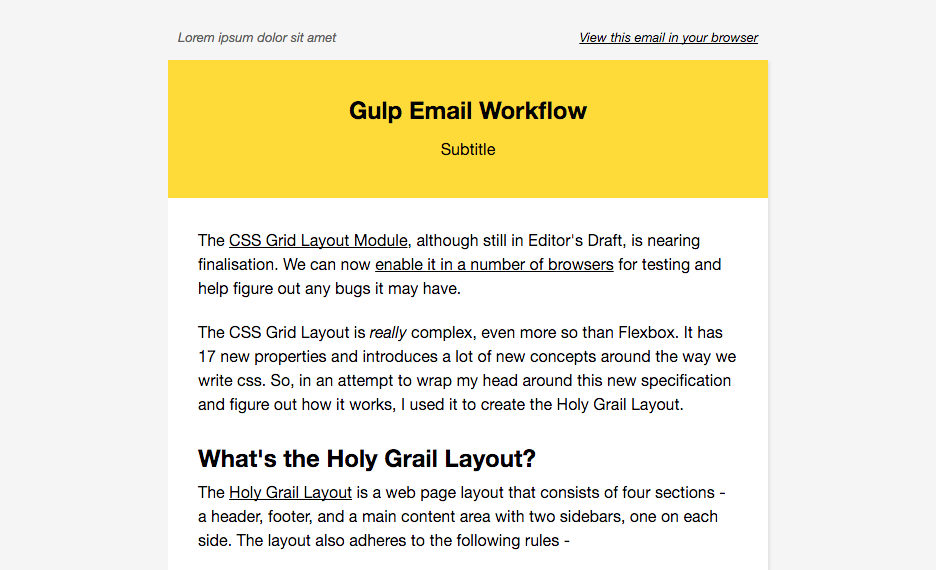
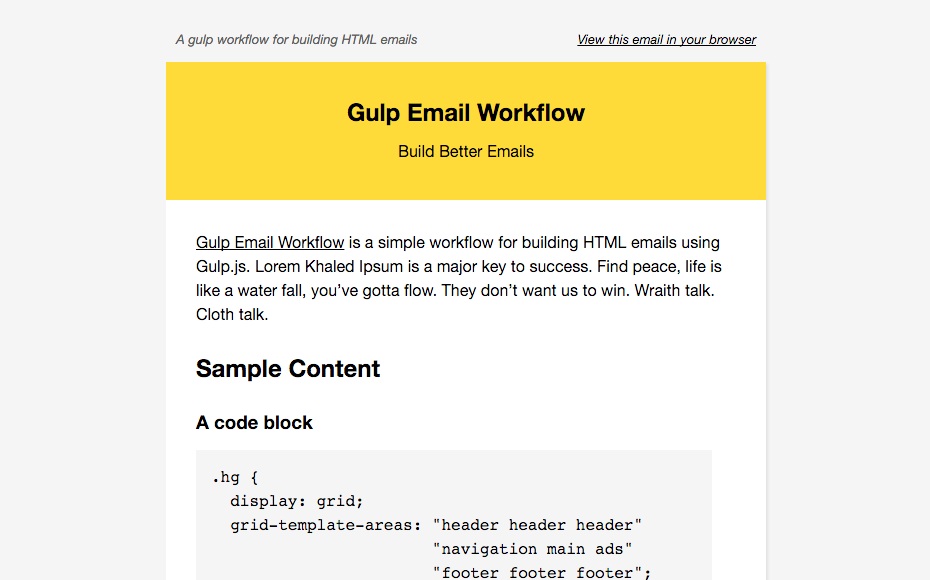
more cleanup

diff --git a/build/index.html b/build/index.html
@@ -2,17 +2,17 @@
 <html xmlns="http://www.w3.org/1999/xhtml">
 <head>
   <meta property="og:type" content="article">
-  <meta property="og:title" content="bitsofcode">
+  <meta property="og:title" content="">
   <meta property="og:url" content="">
   <meta http-equiv="Content-Type" content="text/html; charset=UTF-8">
 
   <title>*|MC:SUBJECT|*</title>
 
-  <link rel="stylesheet" href="/build/css/inline.css">
-  <style type="text/css">#template-content a:link,#template-content a:visited,#template-content a.yshortcuts{color:#000;font-weight:normal;text-decoration:underline}#template-content h2{margin-top:30px;margin-bottom:10px}#template-content h3{margin-top:30px;margin-bottom:10px}#template-content img{display:inline;height:auto;width:100%}#template-content p{margin:0 0 20px}#template-content pre{display:block;width:90%;overflow-x:scroll;background-color:#F5F5F5;padding:15px}#template-content code{background-color:#F5F5F5}
+   
+  <style type="text/css">#template-content a:link,#template-content a:visited,#template-content a.yshortcuts{color:#000;font-weight:normal;text-decoration:underline}#template-content h2{margin-top:30px;margin-bottom:20px}#template-content h3{margin-top:30px;margin-bottom:10px}#template-content img{display:inline;height:auto;width:100%}#template-content p{margin:0 0 20px}#template-content pre{display:block;width:90%;overflow-x:scroll;background-color:#F5F5F5;padding:15px}#template-content code{background-color:#F5F5F5}#template-content blockquote{margin:0 0 10px;border-left:5px solid #F5F5F5;padding:5px 10px;font-style:italic}
 </style>
 </head>
-<body leftmargin="0" marginwidth="0" topmargin="0" marginheight="0" offset="0">
+<body leftmargin="0" marginwidth="0" topmargin="0" marginheight="0" offset="0" style="-ms-text-size-adjust: 100%; -webkit-text-size-adjust: 100%; background-color: #F5F5F5; height: 100% !important; margin: 0; padding: 0; width: 100%;">
 
     <div itemscope="" itemtype="http://schema.org/EmailMessage">
       <div itemprop="publisher" itemscope="" itemtype="http://schema.org/Organization">
@@ -21,38 +21,38 @@
       </div>
       <div itemprop="about" itemscope="" itemtype="http://schema.org/Offer"></div>
     </div>
-<center id="body-container">
+<center id="body-container" style="margin: 20px auto; max-width: 600px; width: 100%;">
 
   <!-- PREHEADER //////////////// -->
-  <table border="0" cellpadding="0" cellspacing="0" id="template-preheader" width="100%">
+  <table border="0" cellpadding="0" cellspacing="0" id="template-preheader" width="100%" style="-ms-text-size-adjust: 100%; -webkit-text-size-adjust: 100%; border-collapse: collapse !important; mso-table-lspace: 0pt; mso-table-rspace: 0pt;">
     <tr>
-      <td mc:edit="preheader_content01" valign="top" width="50%">
+      <td mc:edit="preheader_content01" valign="top" width="50%" style="-ms-text-size-adjust: 100%; -webkit-text-size-adjust: 100%; color: #606060; font-family: 'Helvetica Neue', Helvetica, 'Arial', sans-serif; font-size: 13px; font-style: italic; mso-table-lspace: 0pt; mso-table-rspace: 0pt; padding: 15px 10px;">
            
-Lorem ipsum dolor sit amet
+A gulp workflow for building HTML emails
 
       </td>
-      <td mc:edit="preheader_content02" valign="top" width="50%">
-          <a href="*|ARCHIVE|*">View this email in your browser</a>
+      <td mc:edit="preheader_content02" valign="top" width="50%" style="-ms-text-size-adjust: 100%; -webkit-text-size-adjust: 100%; color: #606060; font-family: 'Helvetica Neue', Helvetica, 'Arial', sans-serif; font-size: 13px; font-style: italic; mso-table-lspace: 0pt; mso-table-rspace: 0pt; padding: 15px 10px; text-align: right;">
+          <a href="*|ARCHIVE|*" style="-ms-text-size-adjust: 100%; -webkit-text-size-adjust: 100%; color: #000;">View this email in your browser</a>
       </td>
     </tr>
   </table>
 
 
   <!-- START TEMPLATE CONTENT //////////////// -->
-  <center id="template-content">
+  <center id="template-content" style="background-color: #fff; box-shadow: 2px 2px 3px rgba(150,150,150,0.2);">
 
     <!-- EMAIL HEADER -->
-    <table border="0" cellpadding="0" cellspacing="0" id="template-content-header" width="100%">
+    <table border="0" cellpadding="0" cellspacing="0" id="template-content-header" width="100%" style="-ms-text-size-adjust: 100%; -webkit-text-size-adjust: 100%; border-collapse: collapse !important; mso-table-lspace: 0pt; mso-table-rspace: 0pt; position: relative; text-align: center;">
       <tr>
-        <td align="center" valign="top">
-            <h1 mc:edit="email_title" class="email-title">
+        <td align="center" valign="top" style="-ms-text-size-adjust: 100%; -webkit-text-size-adjust: 100%; background-color: #ffdb3a; font-family: 'Helvetica Neue', Helvetica, 'Arial', sans-serif; mso-table-lspace: 0pt; mso-table-rspace: 0pt; padding: 20px 15px;">
+            <h1 mc:edit="email_title" class="email-title" style="color: #000; font-size: 24px; font-weight: 700; line-height: 120%; text-decoration: none;">
              
 Gulp Email Workflow
 
             </h1>
-            <p mc:edit="email_subtitle" class="email-subtitle">
+            <p mc:edit="email_subtitle" class="email-subtitle" style="-ms-text-size-adjust: 100%; -webkit-text-size-adjust: 100%; font-size: 16px;">
              
-Subtitle
+Build Better Emails
 
             </p>
         </td>
@@ -61,19 +61,59 @@ Subtitle
 
 
     <!-- EMAIL CONTENT -->
-    <div mc:edit="body" id="template-content-content">
+    <div mc:edit="body" id="template-content-content" style="font-family: 'Helvetica Neue', Helvetica, 'Arial', sans-serif; font-size: 16px; font-weight: 400; line-height: 150%; margin: 30px 0; max-width: 560px; text-align: left; width: 90%;">
        
-<p>The <a href="https://drafts.csswg.org/css-grid/">CSS Grid Layout Module</a>, although still in Editor's Draft, is nearing finalisation. We can now <a href="http://igalia.github.io/css-grid-layout/enable.html">enable it in a number of browsers</a> for testing and help figure out any bugs it may have.</p> <p>The CSS Grid Layout is <em>really</em> complex, even more so than Flexbox. It has 17 new properties and introduces a lot of new concepts around the way we write css. So, in an attempt to wrap my head around this new specification and figure out how it works, I used it to create the Holy Grail Layout. </p> <h2 id="whatstheholygraillayout">What's the Holy Grail Layout?</h2> <p>The <a href="https://en.wikipedia.org/wiki/Holy_Grail_(web_design)">Holy Grail Layout</a> is a web page layout that consists of four sections - a header, footer, and a main content area with two sidebars, one on each side. The layout also adheres to the following rules - </p> <ul> <li>Has a <strong>fluid center column</strong> width <strong>fixed-width sidebars</strong></li> <li>The center column should appear <strong>first in the markup</strong>, before the two sidebars (but after the header)</li> <li>All three columns should be the <strong>same height</strong>, regardless of the content within them</li> <li>The footer should always be at the <strong>bottom of the browser viewport</strong>, even when the content doesn't fill up the height of the viewport</li> <li>The layout should be <strong>responsive</strong>, all the sections should collapse into one column on smaller viewports</li> </ul> <p>It is famously difficult to create simply in CSS without any hacks.</p> <h2 id="thesolutionwithcssgrid">The Solution with CSS Grid</h2> <p>Here is the solution I came up with using the CSS Grid Layout. First, the markup - </p> <pre><code class="language-html">&lt;body class="hg"&gt; &lt;header class="hg__header"&gt;Title&lt;/header&gt; &lt;main class="hg__main"&gt;Content&lt;/main&gt; &lt;aside class="hg__left"&gt;Menu&lt;/aside&gt; &lt;aside class="hg__right"&gt;Ads&lt;/aside&gt; &lt;footer class="hg__footer"&gt;Footer&lt;/footer&gt; &lt;/body&gt; </code></pre> <p>And the CSS, at only 31 lines (expanded!) - </p> <pre><code class="language-css">.hg__header { grid-area: header; } .hg__footer { grid-area: footer; } .hg__main { grid-area: main; } .hg__left { grid-area: navigation; } .hg__right { grid-area: ads; } .hg { display: grid; grid-template-areas: "header header header" "navigation main ads" "footer footer footer"; grid-template-columns: 150px 1fr 150px; grid-template-rows: 100px 1fr 30px; min-height: 100vh; } @media screen and (max-width: 600px) { .hg { grid-template-areas: "header" "navigation" "main" "ads" "footer"; grid-template-columns: 100%; grid-template-rows: 100px 50px 1fr 50px 30px; } } </code></pre> <p><img src="http://bitsofco.de/content/images/2016/03/Holy_Grail_CSS_Grid.gif" alt="Holy Grail Layout Responsive Demo"></p> <h2 id="breakingitdown">Breaking it Down</h2> <p>As I mentioned, CSS Grid Layout can be very complicated. However, for the purpose of creating this layout, I only used 4 of the 17 new properties - </p> <ul> <li><code>grid-area</code></li> <li><code>grid-template-areas</code></li> <li><code>grid-template-columns</code></li> <li><code>grid-template-rows</code></li> </ul> <p>My solution to the Holy Grail Layout using these CSS Grid properties can be broken down into five steps.</p> <h3 id="1definingthegrid">1. Defining the Grid</h3> <p>The first thing we want to do is define the grid areas, so we can refer to them by this alias when creating the grid. We do this with the <code>grid-area</code> property. </p>
+<p style="-ms-text-size-adjust: 100%; -webkit-text-size-adjust: 100%;"><a href="https://github.com/ireade/gulp-email-workflow" style="-ms-text-size-adjust: 100%; -webkit-text-size-adjust: 100%; color: #000;">Gulp Email Workflow</a> is a simple workflow for building HTML emails using Gulp.js. Lorem Khaled Ipsum is a major key to success. Find peace, life is like a water fall, you’ve gotta flow. They don’t want us to win. Wraith talk. Cloth talk. </p>
+
+<h2>Sample Content</h2>
+
+<h3>A code block</h3>
+
+<pre><code class="language-css">.hg { 
+  display: grid; 
+  grid-template-areas: "header header header" 
+		       "navigation main ads" 
+		       "footer footer footer";
+  grid-template-columns: 150px 1fr 150px; 
+  grid-template-rows: 100px 1fr 30px; 
+  min-height: 100vh; 
+}</code></pre>
+
+<h3>An unordered list</h3>
+
+<ul>
+	<li style="-ms-text-size-adjust: 100%; -webkit-text-size-adjust: 100%;">List item one</li>
+	<li style="-ms-text-size-adjust: 100%; -webkit-text-size-adjust: 100%;">List item two</li>
+	<li style="-ms-text-size-adjust: 100%; -webkit-text-size-adjust: 100%;">List item three</li>
+</ul>
+
+<h3>An ordered list</h3>
+
+<ol>
+	<li style="-ms-text-size-adjust: 100%; -webkit-text-size-adjust: 100%;">List item one</li>
+	<li style="-ms-text-size-adjust: 100%; -webkit-text-size-adjust: 100%;">List item two</li>
+	<li style="-ms-text-size-adjust: 100%; -webkit-text-size-adjust: 100%;">List item three</li>
+</ol>
+
+<h3>A block quote</h3>
+
+<blockquote style="-ms-text-size-adjust: 100%; -webkit-text-size-adjust: 100%;">
+	The first of the month is coming, we have to get money, we have no choice. 
+</blockquote>
+
+<h2>Some people can’t handle success, I can</h2>
+
+<p style="-ms-text-size-adjust: 100%; -webkit-text-size-adjust: 100%;">In life you have to take the trash out, if you have trash in your life, take it out, throw it away, get rid of it, major key. The ladies always say Khaled you smell good, I use no cologne. Cocoa butter is the key. Egg whites, turkey sausage, wheat toast, water. Of course they don’t want us to eat our breakfast, so we are going to enjoy our breakfast. </p>
 
     </div>
 
 
     <!-- EMAIL FOOTER -->
-    <table border="0" cellpadding="0" cellspacing="0" id="template-content-footer" width="100%">
-      <tr>
-        <td align="center" valign="top" mc:edit="email_footer">
+    <table border="0" cellpadding="0" cellspacing="0" id="template-content-footer" width="100%" style="-ms-text-size-adjust: 100%; -webkit-text-size-adjust: 100%; border-collapse: collapse !important; mso-table-lspace: 0pt; mso-table-rspace: 0pt;">
+      <tr style="background-color: #f0f0f0;">
+        <td align="center" valign="top" mc:edit="email_footer" style="-ms-text-size-adjust: 100%; -webkit-text-size-adjust: 100%; font-family: 'Helvetica Neue', Helvetica, 'Arial', sans-serif; font-size: 15px; font-weight: 400; line-height: 125%; mso-table-lspace: 0pt; mso-table-rspace: 0pt; padding: 20px 15px;">
              
-<p>Thanks for reading</p>
+<p style="-ms-text-size-adjust: 100%; -webkit-text-size-adjust: 100%;">They will try to close the door on you, just open it. A major key, never panic. Don’t panic, when it gets crazy and rough, don’t panic, stay calm.</p>
 
         </td>
       </tr>
@@ -84,21 +124,21 @@ Subtitle
 
 
   <!-- TEMPLATE FOOTER //////////////// -->
-  <table border="0" cellpadding="0" cellspacing="0" width="100%" id="template-footer">
+  <table border="0" cellpadding="0" cellspacing="0" width="100%" id="template-footer" style="-ms-text-size-adjust: 100%; -webkit-text-size-adjust: 100%; border-collapse: collapse !important; mso-table-lspace: 0pt; mso-table-rspace: 0pt;">
     <tr>
-        <td align="center" valign="top">
-          <p>
-            This email was sent to <a href="mailto:*|EMAIL|*" target="_blank">*|EMAIL|*</a>
+        <td align="center" valign="top" style="-ms-text-size-adjust: 100%; -webkit-text-size-adjust: 100%; color: #606060; font-family: 'Helvetica Neue', Helvetica, 'Arial', sans-serif; font-size: 11px; line-height: 150%; mso-table-lspace: 0pt; mso-table-rspace: 0pt; padding: 30px 10px 20px; text-align: center;">
+          <p style="-ms-text-size-adjust: 100%; -webkit-text-size-adjust: 100%; display: block; margin-bottom: 15px;">
+            This email was sent to <a href="mailto:*|EMAIL|*" target="_blank" style="-ms-text-size-adjust: 100%; -webkit-text-size-adjust: 100%; color: #000;">*|EMAIL|*</a>
           </p>
-          <p>
-            <a href="*|ABOUT_LIST|*" target="_blank"><em>why did I get this?</em></a>&nbsp;&nbsp;&nbsp;&nbsp;<a href="*|UNSUB|*">unsubscribe from this list</a>&nbsp;&nbsp;&nbsp;&nbsp;<a href="*|UPDATE_PROFILE|*">update subscription preferences</a>
+          <p style="-ms-text-size-adjust: 100%; -webkit-text-size-adjust: 100%; display: block; margin-bottom: 15px;">
+            <a href="*|ABOUT_LIST|*" target="_blank" style="-ms-text-size-adjust: 100%; -webkit-text-size-adjust: 100%; color: #000;"><em>why did I get this?</em></a>&nbsp;&nbsp;&nbsp;&nbsp;<a href="*|UNSUB|*" style="-ms-text-size-adjust: 100%; -webkit-text-size-adjust: 100%; color: #000;">unsubscribe from this list</a>&nbsp;&nbsp;&nbsp;&nbsp;<a href="*|UPDATE_PROFILE|*" style="-ms-text-size-adjust: 100%; -webkit-text-size-adjust: 100%; color: #000;">update subscription preferences</a>
           </p>
-          <p>
+          <p style="-ms-text-size-adjust: 100%; -webkit-text-size-adjust: 100%; display: block; margin-bottom: 15px;">
             <em>Copyright &copy; *|CURRENT_YEAR|* *|LIST:COMPANY|*, All rights reserved.<br>
             *|LIST:ADDRESSLINE|*
             </em>
           </p>
-          <p>*|REWARDS|*</p>
+          <p style="-ms-text-size-adjust: 100%; -webkit-text-size-adjust: 100%; display: block; margin-bottom: 15px;">*|REWARDS|*</p>
       </td>
     </tr>
   </table>

diff --git a/build/css/embedded.css b/build/css/embedded.css
@@ -1,1 +1,1 @@
-#template-content a:link,#template-content a:visited,#template-content a.yshortcuts{color:#000;font-weight:normal;text-decoration:underline}#template-content h2{margin-top:30px;margin-bottom:10px}#template-content h3{margin-top:30px;margin-bottom:10px}#template-content img{display:inline;height:auto;width:100%}#template-content p{margin:0 0 20px}#template-content pre{display:block;width:90%;overflow-x:scroll;background-color:#F5F5F5;padding:15px}#template-content code{background-color:#F5F5F5}
+#template-content a:link,#template-content a:visited,#template-content a.yshortcuts{color:#000;font-weight:normal;text-decoration:underline}#template-content h2{margin-top:30px;margin-bottom:20px}#template-content h3{margin-top:30px;margin-bottom:10px}#template-content img{display:inline;height:auto;width:100%}#template-content p{margin:0 0 20px}#template-content pre{display:block;width:90%;overflow-x:scroll;background-color:#F5F5F5;padding:15px}#template-content code{background-color:#F5F5F5}#template-content blockquote{margin:0 0 10px;border-left:5px solid #F5F5F5;padding:5px 10px;font-style:italic}

diff --git a/gulpfile.js b/gulpfile.js
@@ -15,7 +15,6 @@ var gulp = require('gulp');
 var gutil = require('gulp-util');
 
 
-
 /* *************
   CSS
 ************* */
@@ -80,7 +79,7 @@ var nunjucksRender = require('gulp-nunjucks-render');
 var data = require('gulp-data');
 
 gulp.task('nunjucks', ['sassEmbedded'], function() {
-    return gulp.src('.src/emails/*.nunjucks')
+    return gulp.src('src/emails/*.nunjucks')
         .pipe(
             data(function() {
                 return globalData;
@@ -89,11 +88,11 @@ gulp.task('nunjucks', ['sassEmbedded'], function() {
         )
         .pipe(
             nunjucksRender({
-                path: ['.src/templates/', '.build/css/']
+                path: ['src/templates/', 'build/css/']
             })
             .on('error', gutil.log)
         )
-        .pipe(gulp.dest('.build/'));
+        .pipe(gulp.dest('build/'));
 });
 
 
@@ -133,8 +132,3 @@ gulp.task('watch', function() {
 ************* */
 
 gulp.task('default', ['connect', 'nunjucks', 'inlinecss', 'watch']);
-
-
-
-
-

diff --git a/src/sass/embedded.scss b/src/sass/embedded.scss
@@ -10,7 +10,7 @@
 
   h2 {
     margin-top: 30px;
-    margin-bottom: 10px;
+    margin-bottom: 20px;
   }
 
   h3 {
@@ -39,5 +39,14 @@
   code {
     background-color: #F5F5F5;
   }
+
+
+  blockquote {
+    margin: 0 0 10px;
+    border-left: 5px solid #F5F5F5;
+    padding: 5px 10px;
+    font-style: italic;
+  }
+
 
 }

diff --git a/README.md b/README.md
@@ -1,17 +1,16 @@
 # A Gulp Workflow for Building HTML Emails
 
 
-![Sample Email](screenshot.png)
+![Sample Email Template ](screenshot.png)
 
 This is a workflow for building HTML emails using Gulp. It comes with a default MailChimp-supported template.
 
 What it does -
 
-1. Builds HTML from templates and partials
+1. Builds HTML email from templates and partials
 2. Compiles SCSS to CSS
-3. Inlines your inline.css file
-4. Embeds your embedded.css file
-5. Generates a preview of emails
+3. Inlines the `inline.css` file and embeds the `embedded.css` file
+4. Generates a preview of emails
 
 
 
@@ -19,7 +18,15 @@ What it does -
 ## Getting Started
 
 
-**1. Clone this repository**
+#### 1. Installl dependencies
+
+This workflow requires the following dependencies -
+
+- Node.js with npm ([Install](https://github.com/joyent/node/wiki/Installing-Node.js-via-package-manager))
+- Gulp.js (Install with `npm install gulp`)
+
+
+#### 2. Clone this repository
 
 
 ```
@@ -32,14 +39,14 @@ Or download as a ZIP file.
 
 
 
-### 2. Install packages
+#### 3. Install packages
 
 ```
 npm install
 ```
 
 
-### 3. Start build
+#### 4. Start build
 
 ```
 npm start
@@ -52,9 +59,9 @@ The compiled and inlined output email will be in the `build/` directory.
 
 ## How to use
 
-### Creating templates
+#### Creating templates
 
-This working uses [Nunjucks](https://mozilla.github.io/nunjucks/) for compiling template files to HTML.
+[Nunjucks](https://mozilla.github.io/nunjucks/) is used for compiling template files to HTML.
 
 Templates are stored in `src/templates/` and partials in `src/templates/partials`. To create a template, create a file in the templates directory with the `.nunjucks` file extension. 
 
@@ -72,11 +79,11 @@ To define a block of dynamic content to be replaced by the email file, use the f
 ```
 
 
-### Creating emails from templates
+#### Creating emails from templates
 
 To create an email based off a template file, create a new file in the `src/emails/` directory.
 
-To use a template file, use the following syntax -
+Specify which template to use using the following syntax -
 
 ```
 {% include "partials/PARTIAL_FILE_NAME.nunjucks" %}
@@ -91,25 +98,47 @@ Lorem ipsum dolor sit amet
 ```
 
 
-### Working with global data
+#### Working with global data
 
-Global data is stored in the `src/data` directory as JSON files. 
+Global data is stored in the `src/data` directory as JSON files. Include new data files in the config sections of the `gulpfile.js` using this structure - 
+
+```javascript
+var globalData = {
+    DATA_NAME_1: require('./src/data/FILE_NAME_1.json'),
+    DATA_NAME_2: require('./src/data/FILE_NAME_2.json')
+};
+
+```
+
+For example -
+
+```javascript
+var globalData = {
+    mailchimp: require('./src/data/mailchimp.json')
+};
+
+```
 
 
 
 
-### CSS
+#### CSS
 
-SASS files are stored in the `src/sass/` directory. There are two SASS files -
+SASS files are stored in the `src/sass/` directory. There are two main SASS files -
 
-- `inline.scss` for styles you want to be inlined to their elements
+- `inline.scss` for styles you w Liant to be inlined to their elements
 - `embedded.scss` for styles that shouldn't be inlined. These will be inlcluded within a `<style>` element in the `<head>`
 
-You can create subdirectories within the SASS folder to hold any partials. 
+You can create subdirectories within the SASS folder to hold any partials. Make sure to precede the name of a partial with an underscore, e.g. `_reset.scss`.
 
 
 
 
+
+## Footnotes
+
+- Created by [Ire Aderinokun](http://ireaderinokun.com)
+- Licence
 
 
 
